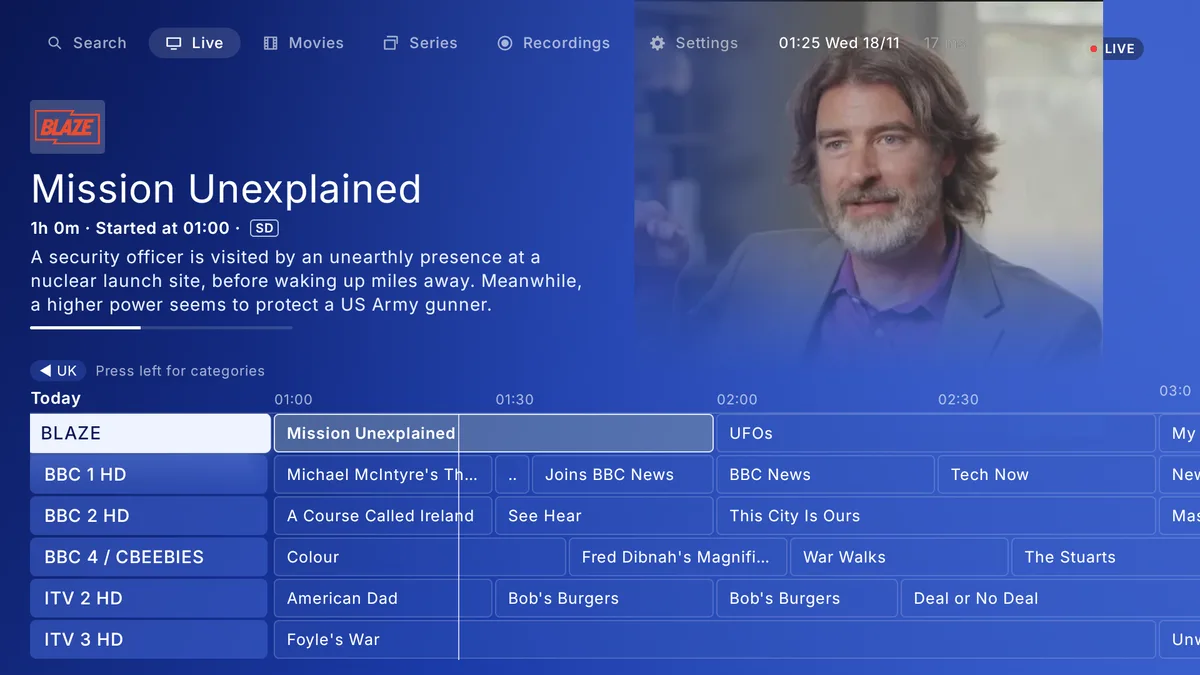
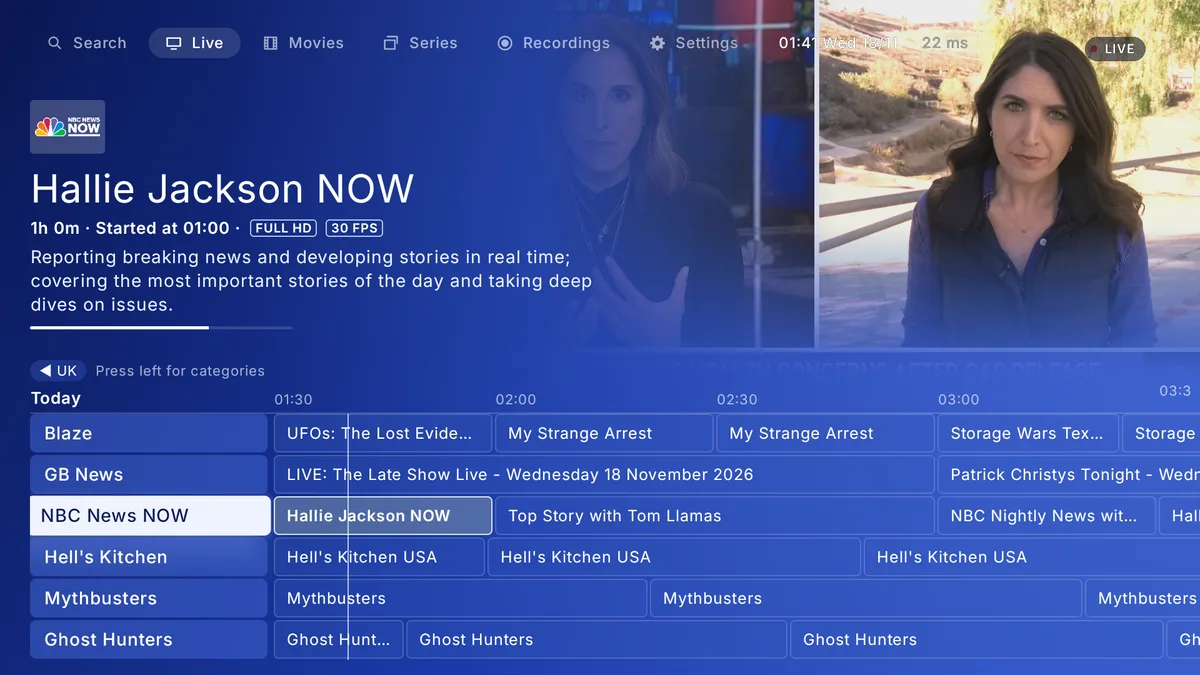
Site: Celestial Glass shot on NBC News NOW with a live frame

diff --git a/site/index.html b/site/index.html
@@ -46,7 +46,7 @@
         </div>
         <p class="small">For Android TV and Google TV 8.0 or newer.</p>
       </div>
-      <div class="hero-shot"><img src="img/themes/celestial-glass.webp" width="1920" height="1080" alt="The IMD TV guide in the Celestial Glass theme: a channel's programme details above a grid of channels and programmes, with the channel previewing top right."></div>
+      <div class="hero-shot"><img src="img/themes/celestial-glass.webp" width="1920" height="1080" alt="The IMD TV guide in the Celestial Glass theme: NBC News NOW's programme details above a grid of channels and programmes, with the channel previewing top right."></div>
     </div>
   </section>
 
